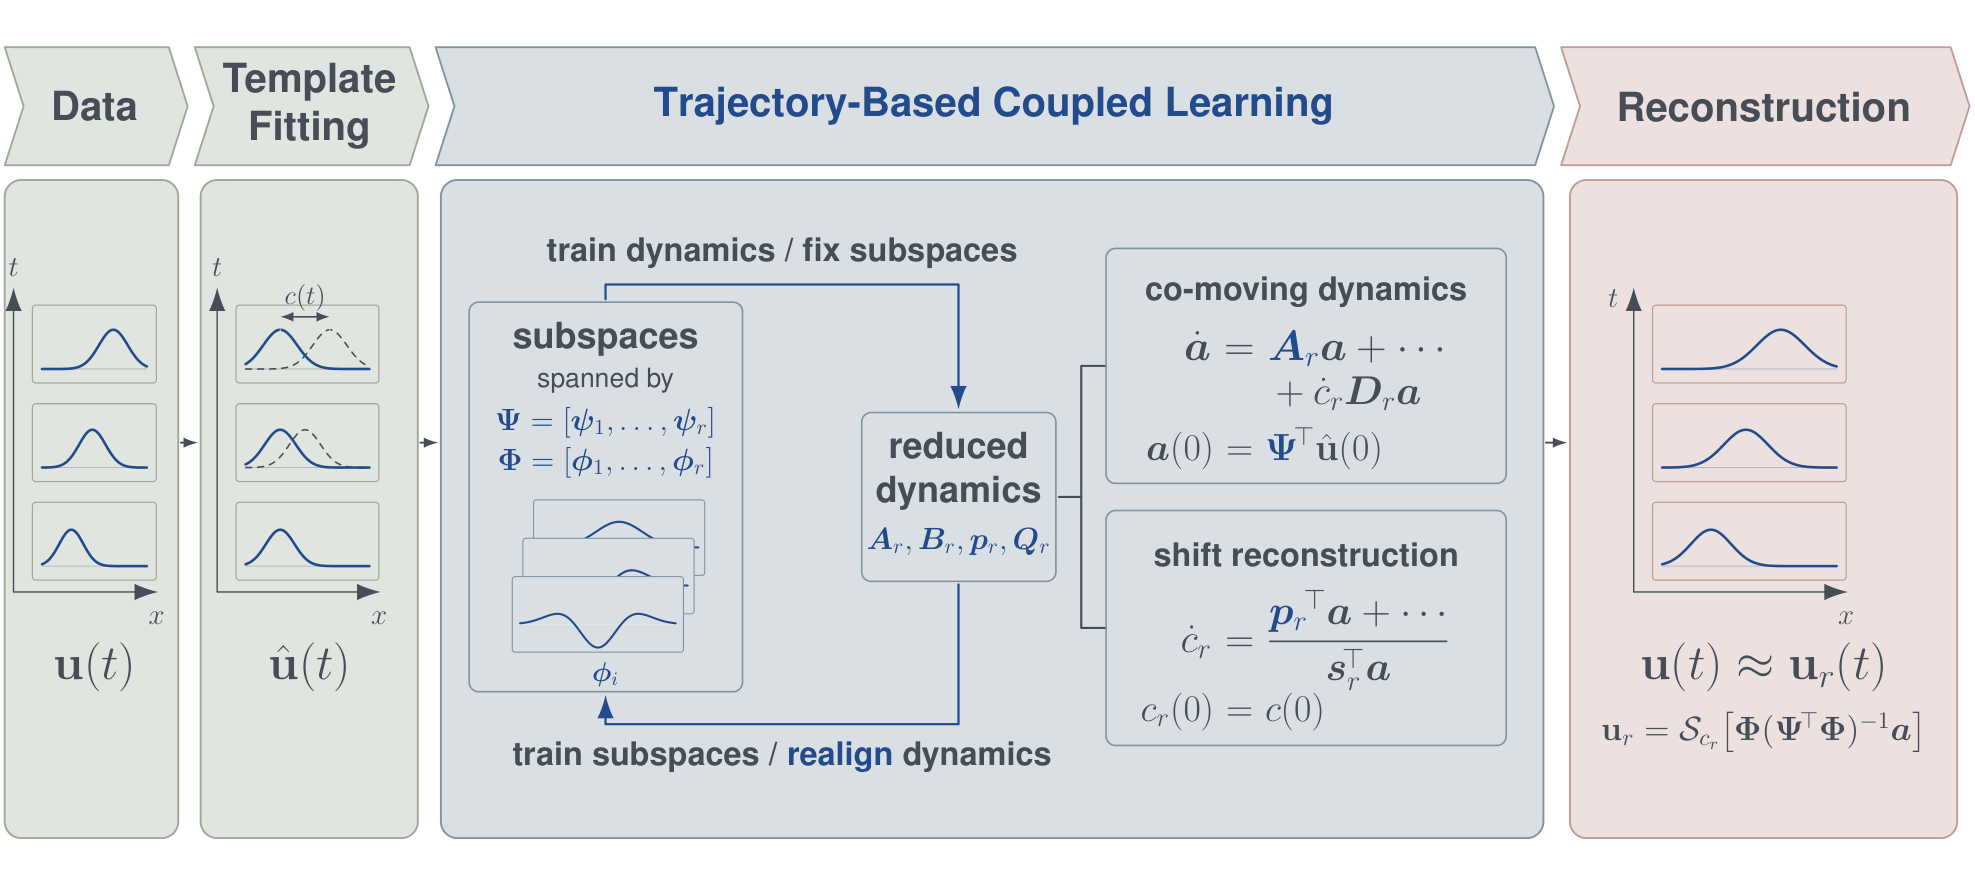
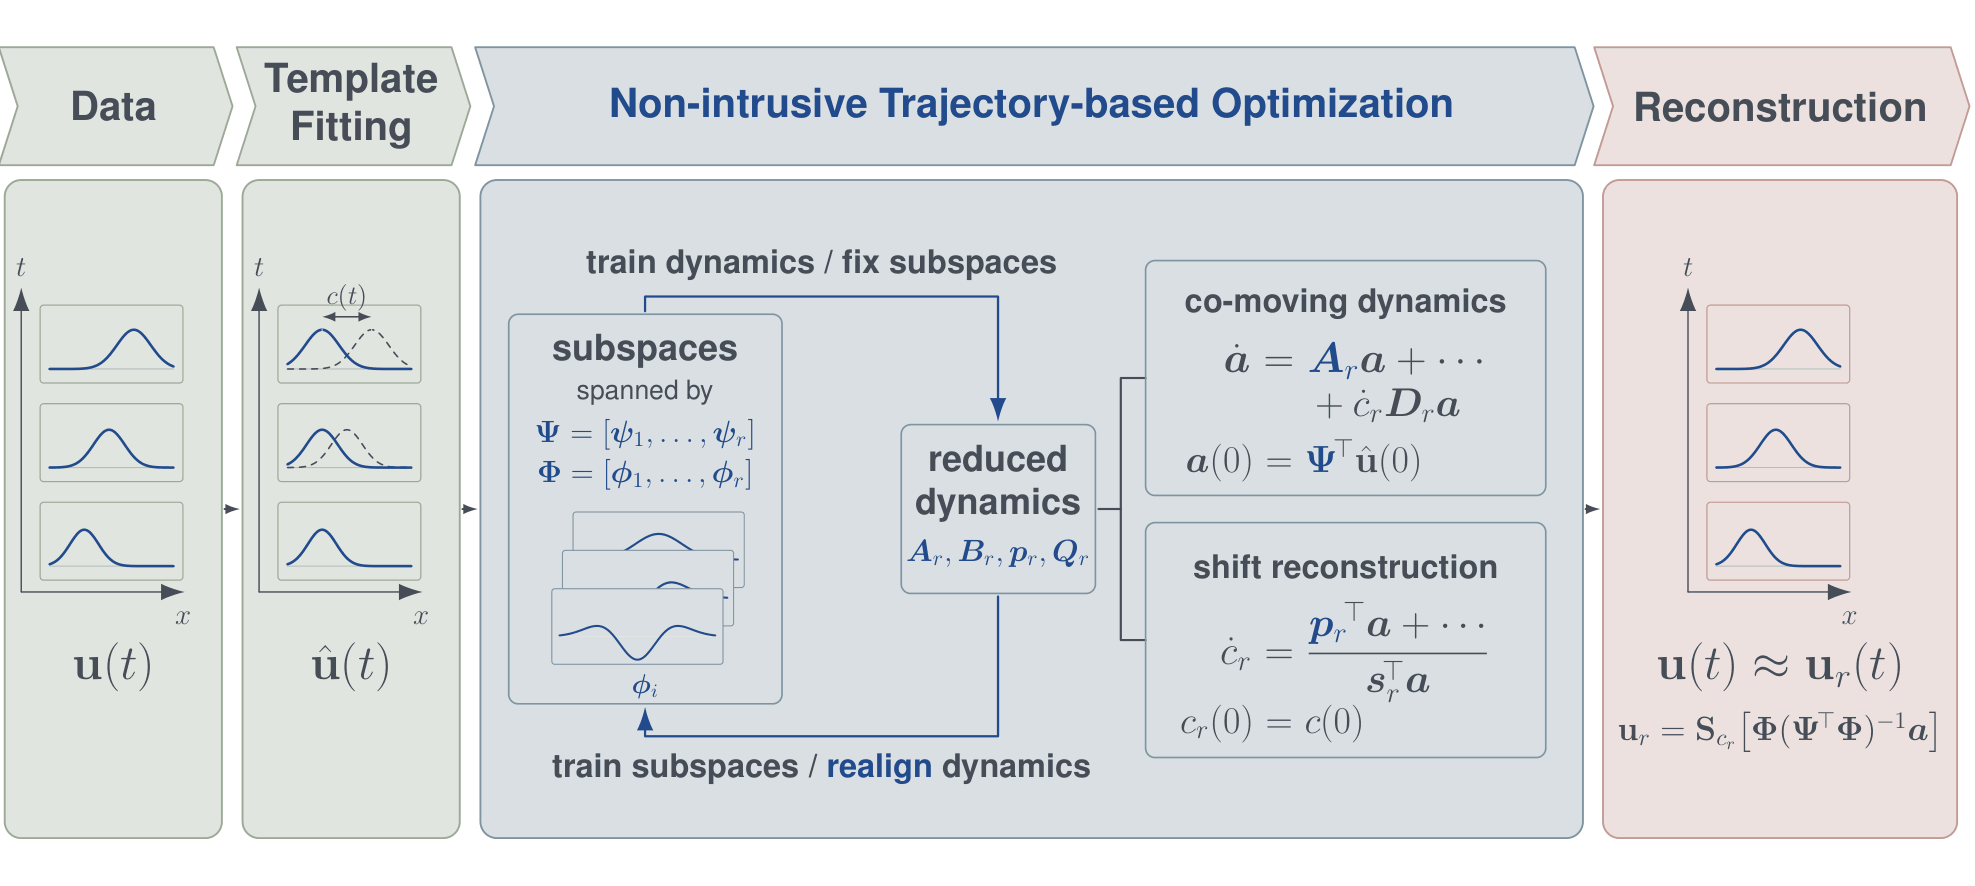
docs(homepage): update the S-R NiTROM pipeline figure
The middle stage is now named Non-intrusive Trajectory-based Optimization, matching the acronym expansion; the alt text follows.

diff --git a/index.html b/index.html
@@ -257,7 +257,7 @@ section { margin: 0 0 40px; }
       <article class="research-item">
         <div>
           <h3>Symmetry-reduced model reduction for shift-equivariant systems</h3>
-          <img class="research-figure" src="figures/srnitrom-method.png" width="1975" height="886" loading="lazy" alt="Pipeline of the S-R NiTROM method: snapshot data, template fitting to extract the shift, trajectory-based coupled learning that alternates between training the reduced dynamics with the subspaces fixed and training the subspaces with the dynamics realigned, then reconstruction of the full field.">
+          <img class="research-figure" src="figures/srnitrom-method.png" width="1975" height="886" loading="lazy" alt="Pipeline of the S-R NiTROM method: snapshot data, template fitting to extract the shift, non-intrusive trajectory-based optimization that alternates between training the reduced dynamics with the subspaces fixed and training the subspaces with the dynamics realigned, then reconstruction of the full field.">
           <p>We develop data-driven reduced-order models of partial differential equations with shift symmetry (also called shift equivariance). Such systems typically admit traveling solutions, which require many basis functions in a fixed reference frame. We instead represent the solution in a traveling reference frame, thereby obtaining a more compact representation. Existing methods such as operator inference then fit the reduced model directly from data, without knowledge of the full-order dynamics.</p>
           <p>We are now developing a joint optimization that learns the projection subspaces and the symmetry-reduced dynamics together.</p>
           <ul class="topic-papers">
